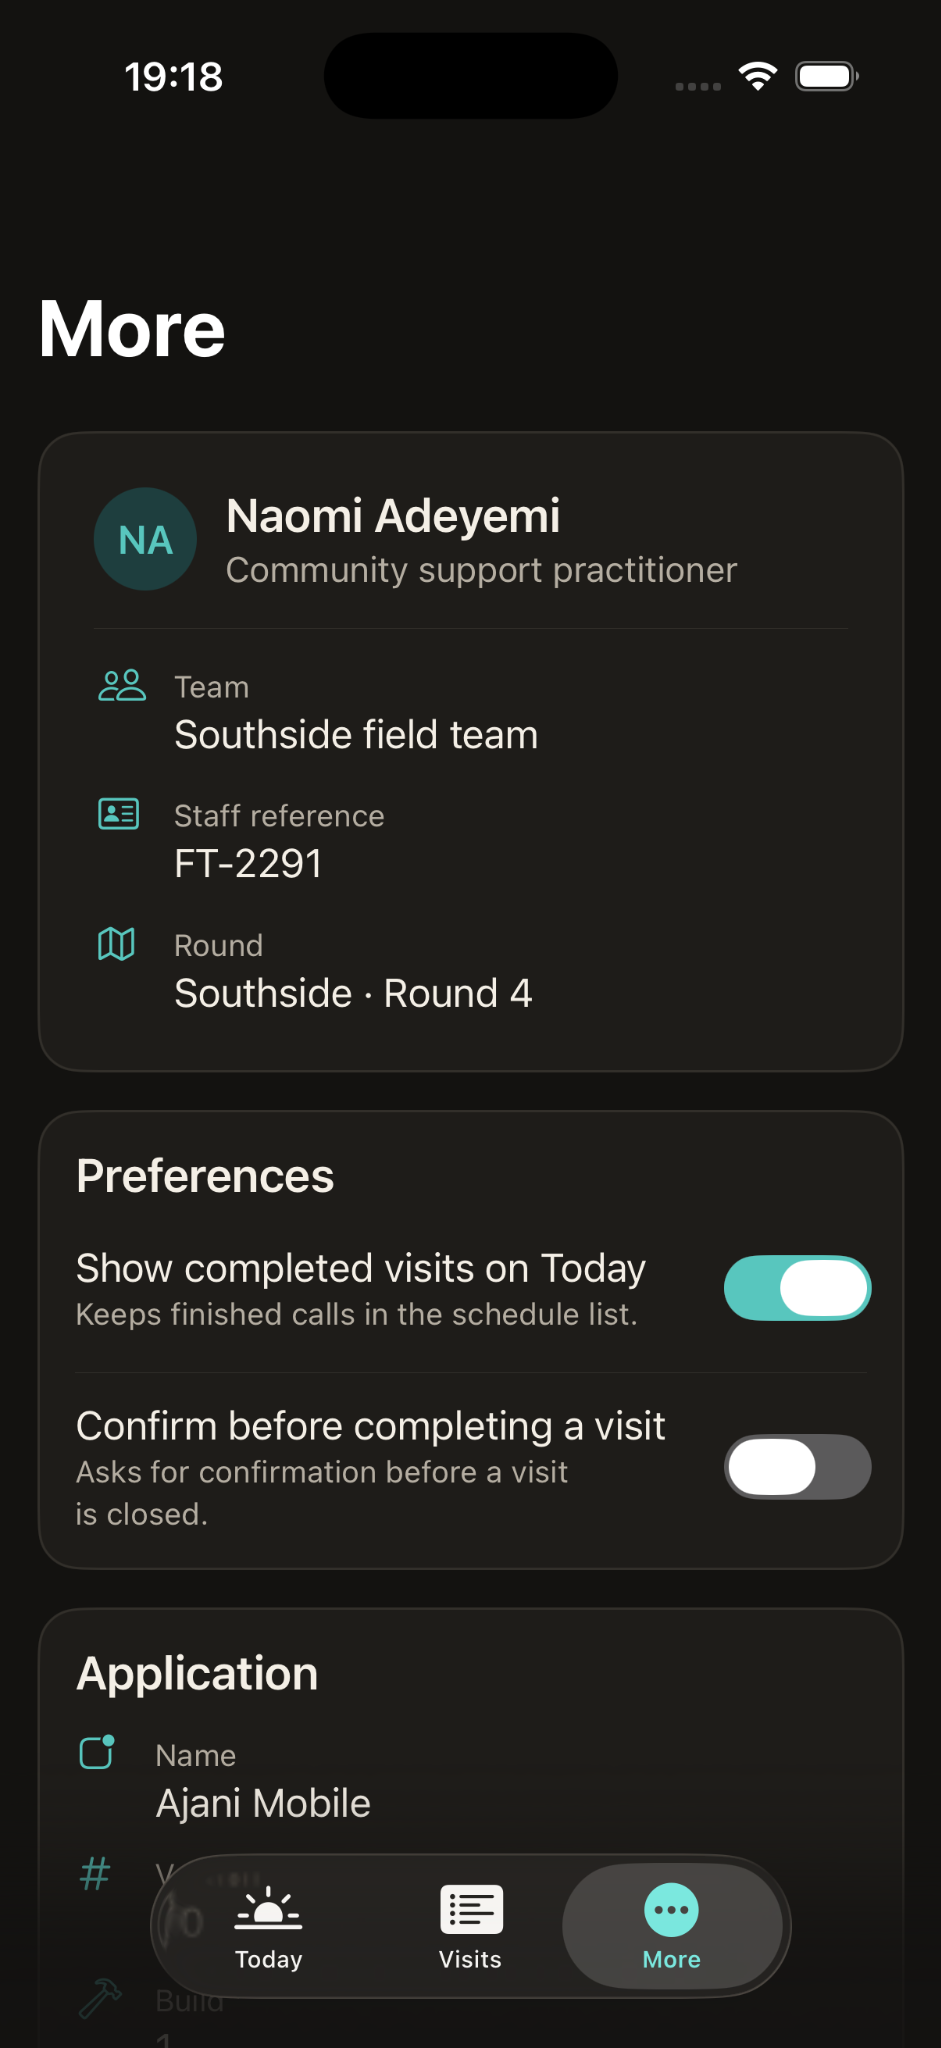
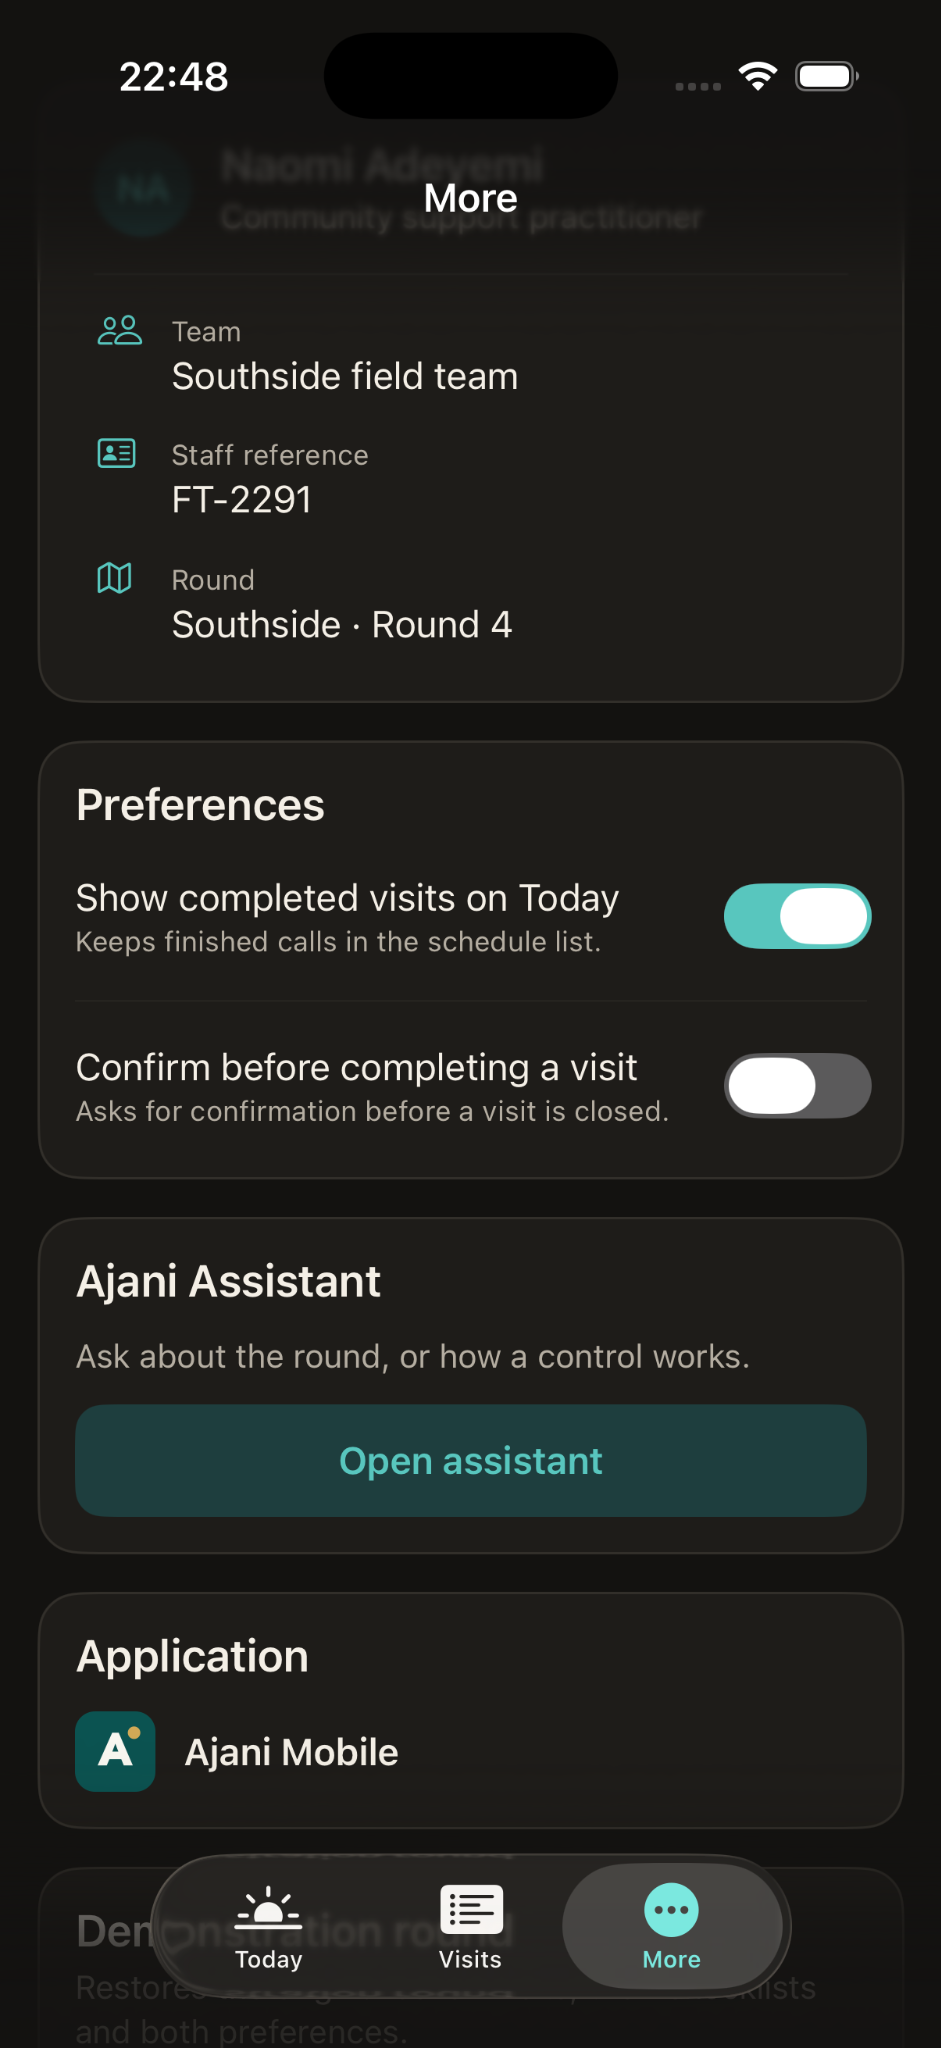
docs: expand README gallery to six screens
Add the Ajani Assistant and Cancel visit captures and refresh the four
existing ones from the current build, giving three rows of two. Alt
text and captions describe what each capture shows; the Assistant entry
notes that the reply shown uses built-in guidance rather than a remote
provider.

Only the Screens section changes.

diff --git a/README.md b/README.md
@@ -8,10 +8,13 @@ move that visit forward.
 
 ## Screens
 
+Native iPhone captures using demonstration data.
+
 |  |  |
 |:---:|:---:|
-| <img src="docs/images/ajani-mobile-today-light.png" alt="Today screen showing shift progress and the active visit" width="300"><br>**Today** — shift overview, progress through the day, and the active visit with its next action | <img src="docs/images/ajani-mobile-visits-dark.png" alt="Visits screen showing the searchable schedule in dark appearance" width="300"><br>**Visits** — the searchable, filterable schedule with operational statuses at a glance |
-| <img src="docs/images/ajani-mobile-visit-detail-light.png" alt="Visit detail screen showing the task checklist and operational notes" width="300"><br>**Visit detail** — task completion tracked against the visit, alongside operational notes | <img src="docs/images/ajani-mobile-more-dark.png" alt="More screen showing practitioner profile and preferences in dark appearance" width="300"><br>**More** — practitioner profile, working preferences, and the full dark appearance |
+| <img src="docs/images/ajani-mobile-today-light.png" alt="Today: Shift overview, progress and active visit" width="300"><br>**Today** — Shift overview, progress and active visit | <img src="docs/images/ajani-mobile-visits-dark.png" alt="Visits: Searchable schedule and operational statuses" width="300"><br>**Visits** — Searchable schedule and operational statuses |
+| <img src="docs/images/ajani-mobile-visit-detail-light.png" alt="Visit detail: Task completion and operational notes" width="300"><br>**Visit detail** — Task completion and operational notes | <img src="docs/images/ajani-mobile-ajani-assistant-light.png" alt="Ajani Assistant: Questions answered from recorded tasks; shown using built-in guidance" width="300"><br>**Ajani Assistant** — Questions answered from recorded tasks; shown using built-in guidance |
+| <img src="docs/images/ajani-mobile-visit-cancel-dark.png" alt="Cancel visit: Reason selection and an operational note" width="300"><br>**Cancel visit** — Reason selection and an operational note | <img src="docs/images/ajani-mobile-more-dark.png" alt="More: Preferences, Assistant access and application identity" width="300"><br>**More** — Preferences, Assistant access and application identity |
 
 ## What it does
 
